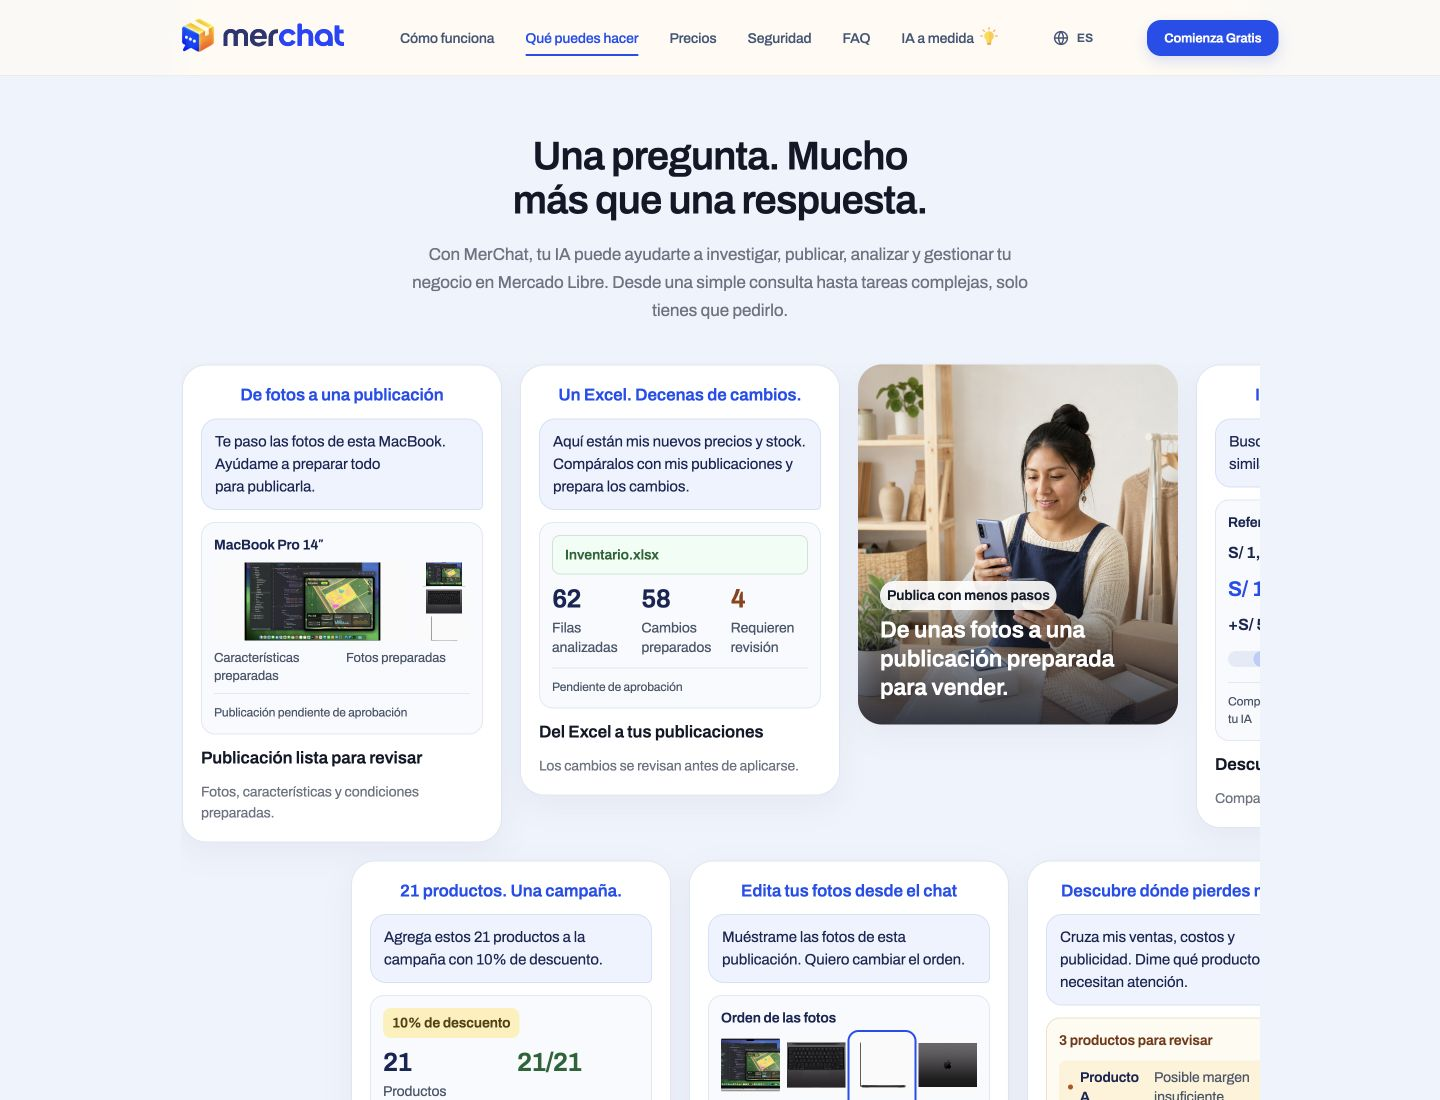
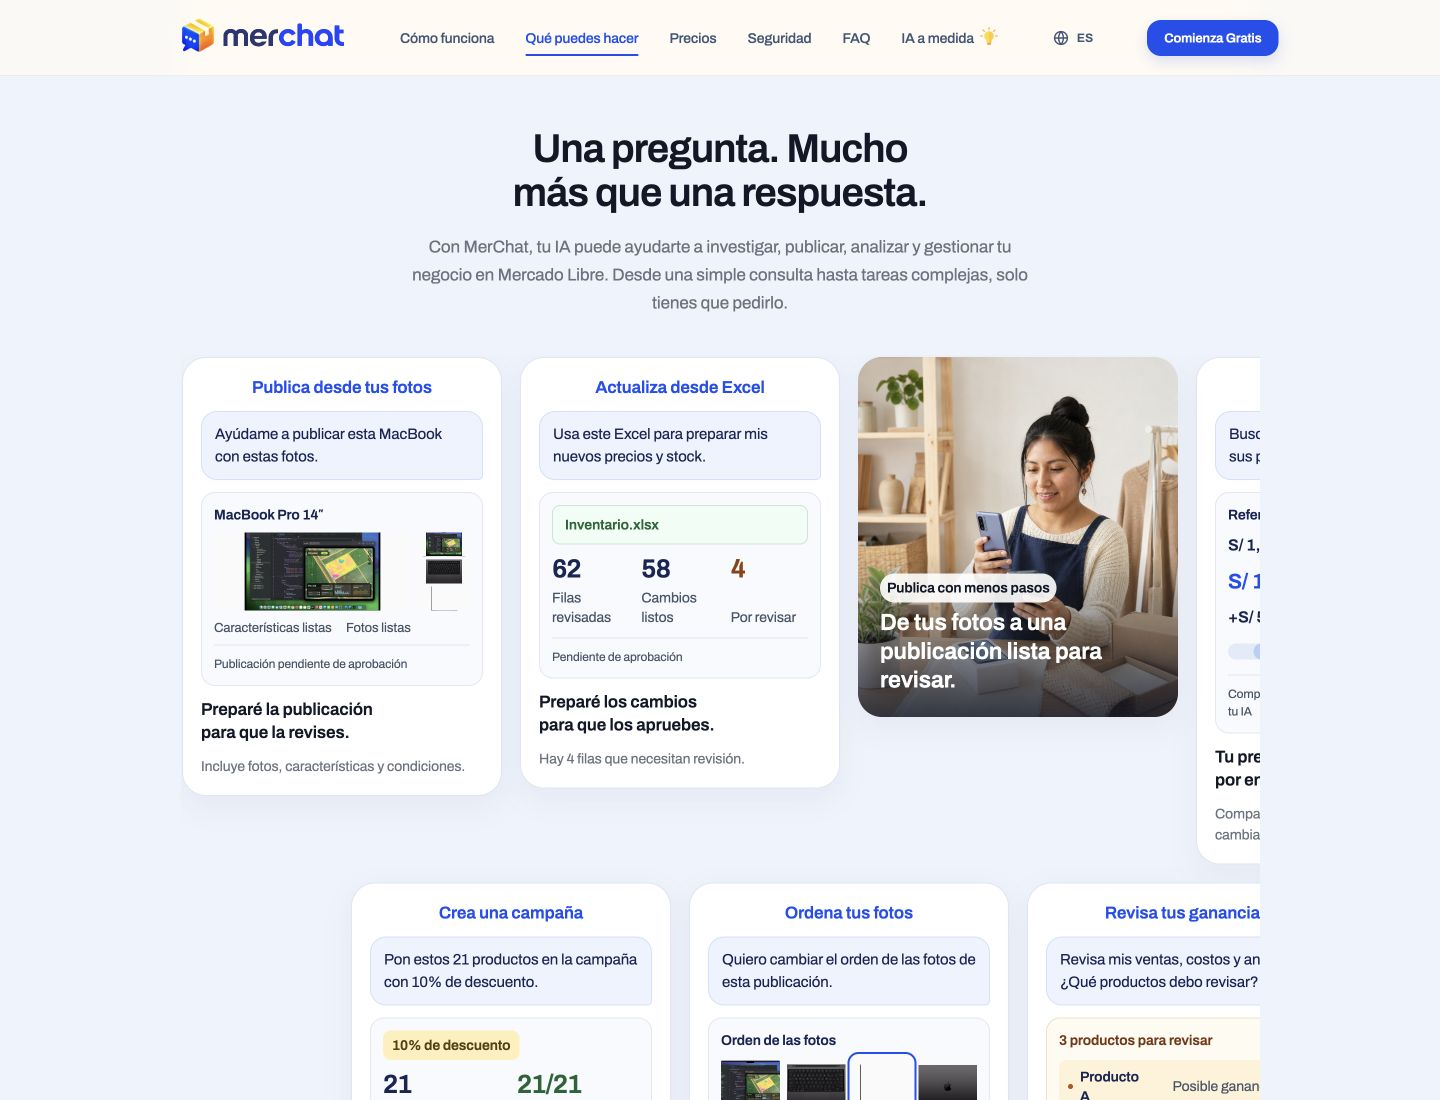
Simplify carousel requests and answers

diff --git a/docs/carousel-review/README.md b/docs/carousel-review/README.md
@@ -10,6 +10,8 @@ Carousel changes keep dragging, swiping, arrows, four dots and reduced motion. L
 
 Cards use content-driven heights, tighter preview spacing and outcomes directly beneath their previews. The four lifestyle photos occupy positions 5, 8, 11 and 14, alternating between rows and aligning to each row start. Photos remain shorter visual pauses. Diagnosis previews distinguish the three conditions; the advertising bar reflects the supplied ACOS value rather than arbitrary decorative columns. Final responsive checks passed at all five widths and all four locales at 360px.
 
+The 12 workflow requests and answers now use everyday, conversational wording. Answers state the concrete result; preview labels avoid jargon where possible and explain ACOS as ad spend divided by sales. Photo captions follow the same plain language. All four translations are updated. Copy outside the carousel is unchanged. Mobile checks at 360px found no overflow in any locale; the latest screenshots show the revised copy.
+
 ## Validation
 
 - `npm run typecheck`: passed.
